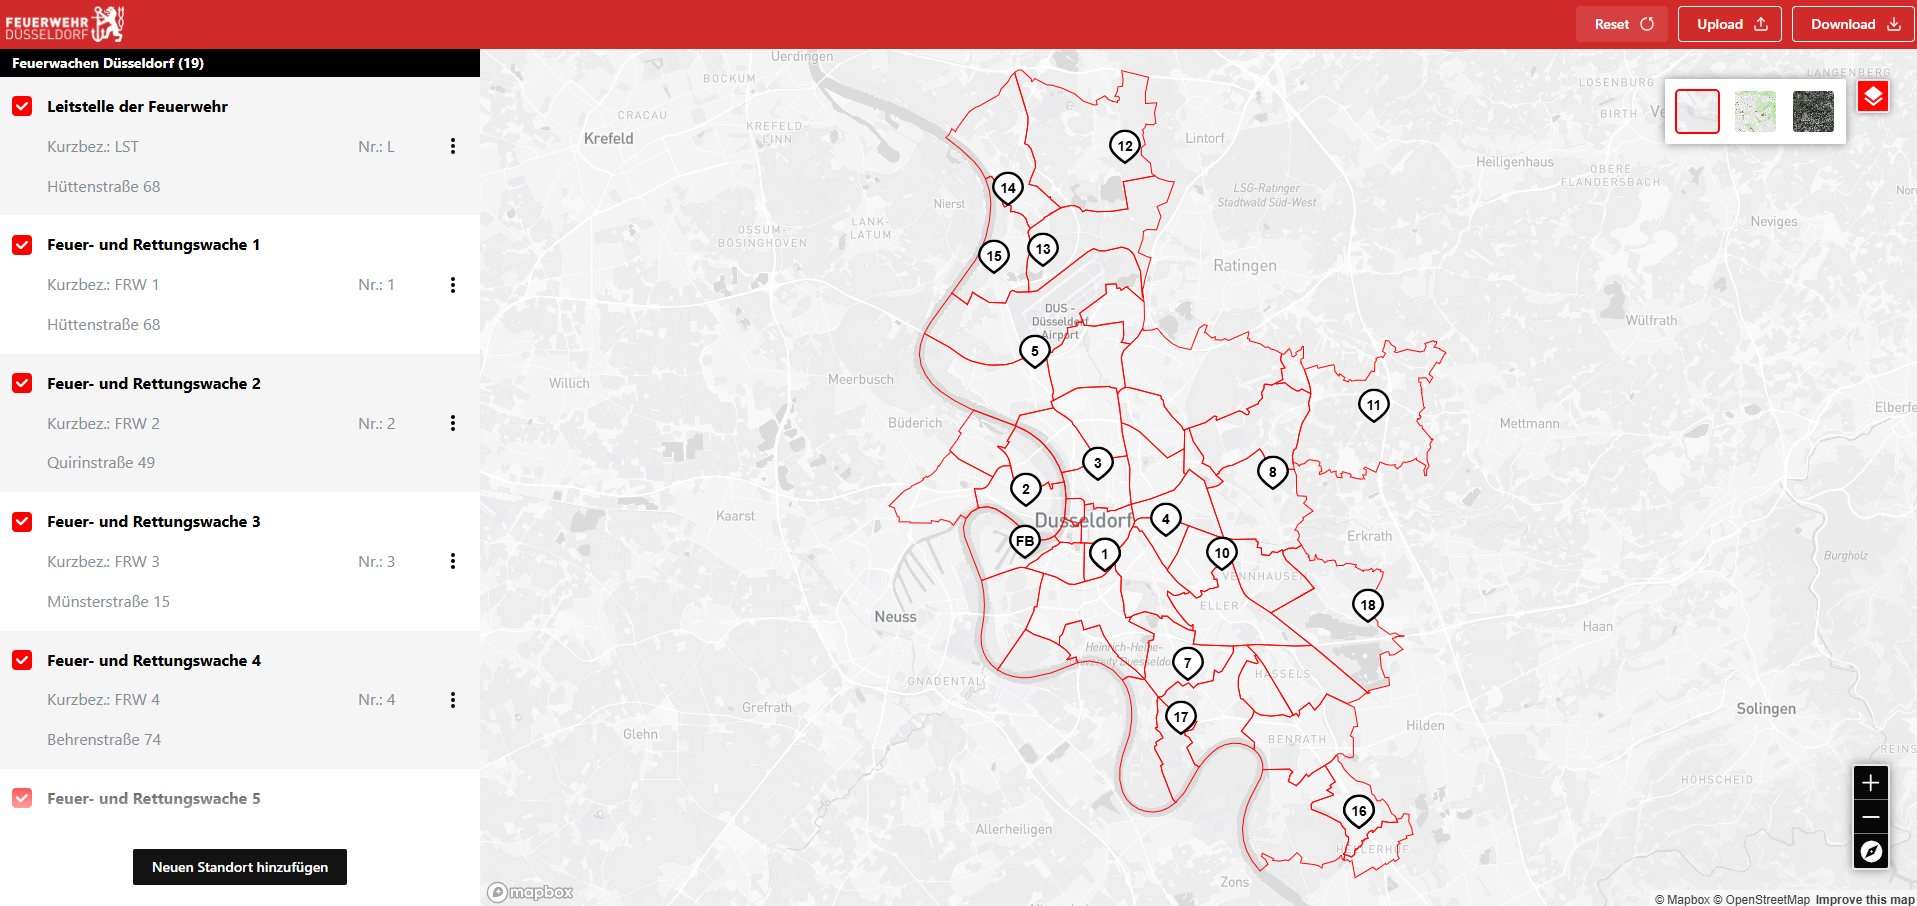
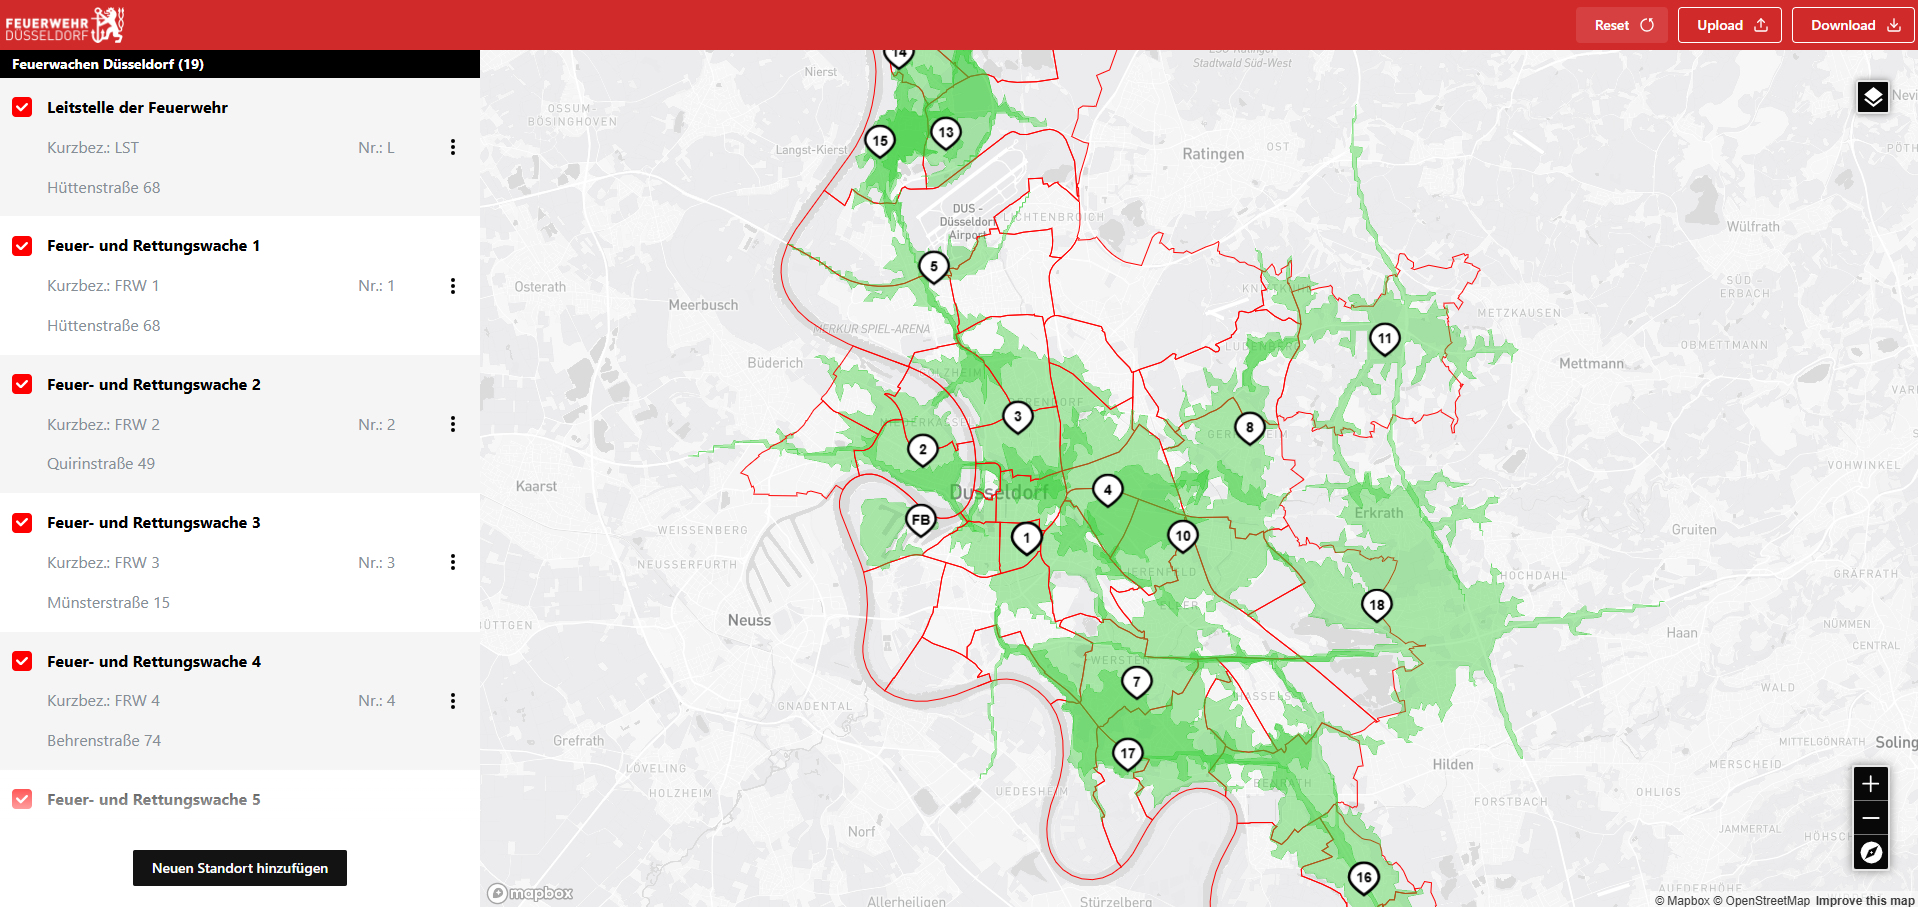
Add isochrone layer functionality to MapView component

diff --git a/app/src/components/MapView.tsx b/app/src/components/MapView.tsx
@@ -56,6 +56,49 @@ export default function MapView() {
         updateMarkers();
     }, [locations]);
 
+    async function getIsochrone(lng: number, lat: number) {
+        const profile = "driving"; // Fahrmodus
+        const minutes = 8; // 8 Minuten Fahrzeit
+
+        const url = `https://api.mapbox.com/isochrone/v1/mapbox/${profile}/${lng},${lat}?contours_minutes=${minutes}&polygons=true&access_token=${mapboxToken}`;
+
+        const response = await fetch(url);
+        if (!response.ok) return null;
+        return await response.json();
+    }
+
+    async function addIsochroneLayer(lng: number, lat: number) {
+        const map = mapRef.current;
+        if (!map) return;
+
+        const data = await getIsochrone(lng, lat);
+        if (!data) return;
+
+        const sourceId = `isochrone-${lng}-${lat}`;
+        const layerId = `isochrone-layer-${lng}-${lat}`;
+
+        // Falls Layer/Source existieren, vorher entfernen
+        if (map.getLayer(layerId)) map.removeLayer(layerId);
+        if (map.getSource(sourceId)) map.removeSource(sourceId);
+
+        // Neue Quelle und Layer hinzufügen
+        map.addSource(sourceId, {
+            type: "geojson",
+            data: data
+        });
+
+        map.addLayer({
+            id: layerId,
+            type: "fill",
+            source: sourceId,
+            layout: {},
+            paint: {
+                "fill-color": "#32CD32", // Grüne Farbe
+                "fill-opacity": 0.4
+            }
+        });
+    }
+
     async function addMarker(location: Location) {
         if (!location.address) return;
 
@@ -73,10 +116,12 @@ export default function MapView() {
 
         const newMarkerData = { marker: newMarker, location: location };
 
-        if(!newMarkerData) return null;
+        if (!newMarkerData) return null;
 
         markerIds.current.add(location.id);
         markerList.current.push(newMarkerData);
+
+        await addIsochroneLayer(lng, lat);
 
         return newMarkerData;
     }
